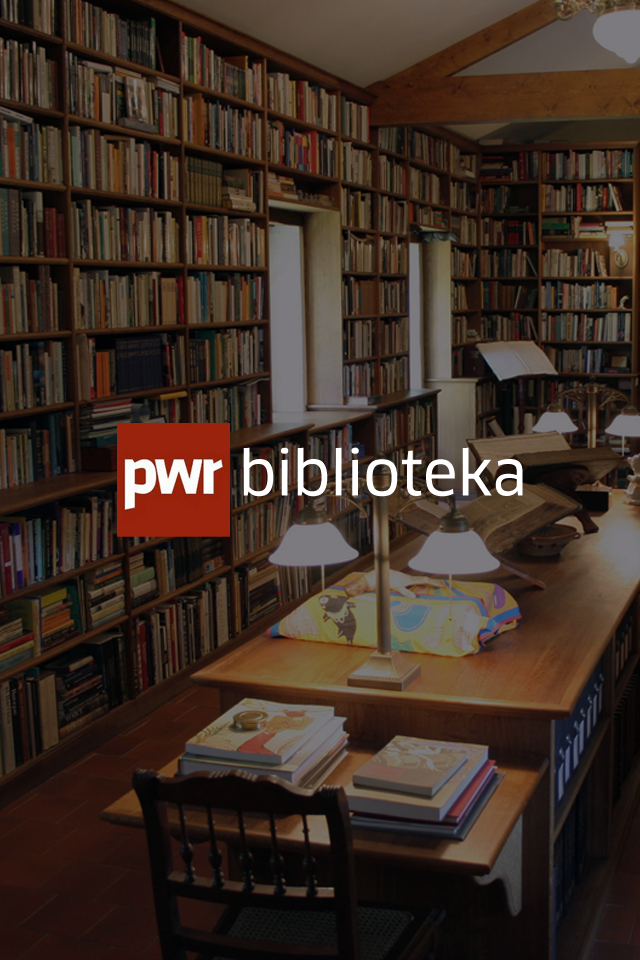
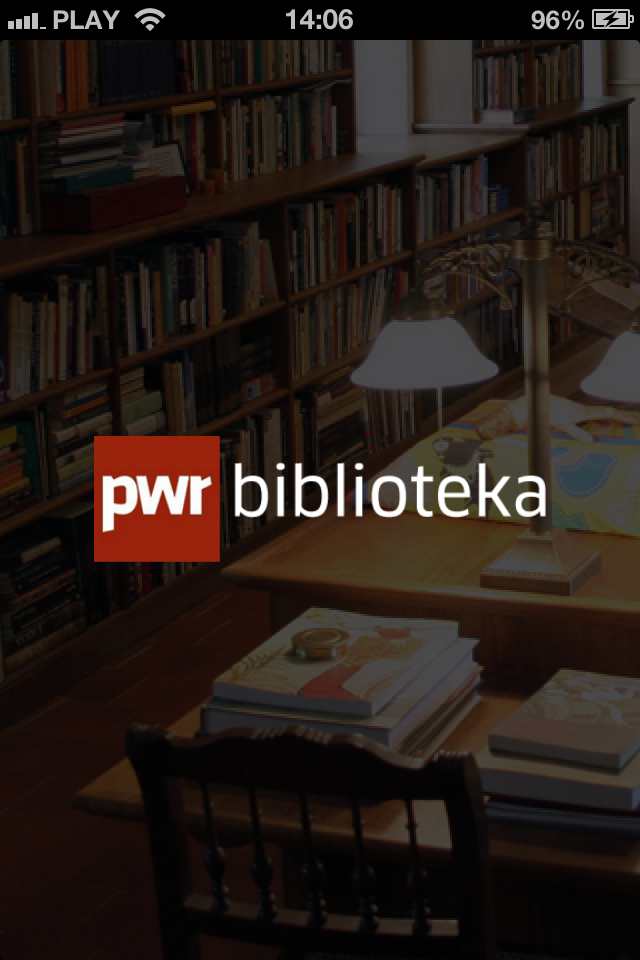
nie wiem po co to komu

diff --git a/Pwr/ViewController.m b/Pwr/ViewController.m
@@ -17,9 +17,11 @@
 @interface ViewController ()
 
 @property (nonatomic, assign) IBOutlet UIImageView *backgroundImageView;
+@property (nonatomic, assign) IBOutlet UIImageView *logo;
 @property (nonatomic, assign) IBOutlet UITextField *textField;
 @property (nonatomic, assign) IBOutlet UIButton *scanButton;
-@property (nonatomic, assign) IBOutlet UIButton *infoButton;
+@property (nonatomic, assign) IBOutlet UIButton *callButton;
+@property (nonatomic, assign) IBOutlet UIButton *mailButton;
 
 @property (nonatomic, retain) MBProgressHUD *HUD;
 @end
@@ -41,6 +43,34 @@
     //Animate background
     [self.navigationController setNavigationBarHidden:YES];
 
+    
+}
+- (void) viewDidAppear:(BOOL)animated{
+    [super viewDidAppear:animated];
+    [UIView animateWithDuration:2.0 animations:^{
+        CGRect frame = _logo.frame;
+        frame.origin.y = 30;
+        _logo.frame = frame;
+                    
+    }];
+    [UIView animateWithDuration:4.0 animations:^{
+        
+        _textField.alpha = 1.0;
+        _scanButton.alpha = 1.0;
+        
+    } completion:^(BOOL finished) {
+        [UIView animateWithDuration:1.0 animations:^{
+            
+            _callButton.alpha = 1.0;
+            _mailButton.alpha = 1.0;
+            
+        } completion:^(BOOL finished) {
+            [self backgroundAnimation];
+        }];
+    }];
+    
+}
+- (void) backgroundAnimation{
     [UIView animateWithDuration:10.0
                           delay:0.0
                         options: UIViewAnimationOptionRepeat | UIViewAnimationOptionAutoreverse
@@ -50,9 +80,8 @@
                      completion:^(BOOL finished){
                          _backgroundImageView.center = self.view.center;
                      }];
-    
-}
 
+}
 - (BOOL)textFieldShouldReturn:(UITextField *)textField{
     [_textField resignFirstResponder];
     [self searchForBookWithQuery:textField.text];
@@ -112,6 +141,7 @@
     }
     
     @catch (NSException *exception) {
+        [_HUD hide:YES];
         [[[[UIAlertView alloc] initWithTitle:exception.name message:exception.reason delegate:nil cancelButtonTitle:@"OK" otherButtonTitles:nil] autorelease] show];
         return;
     }
